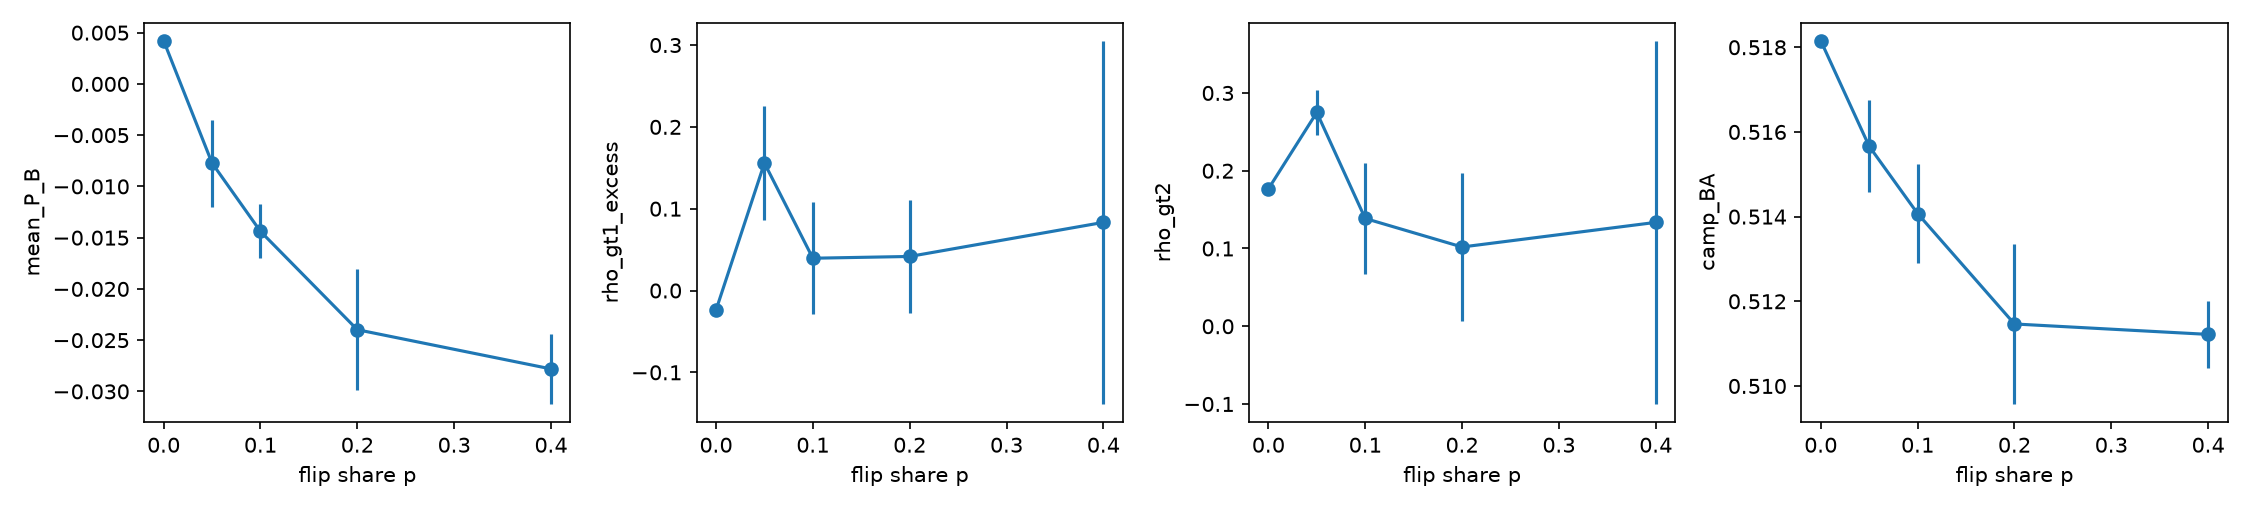
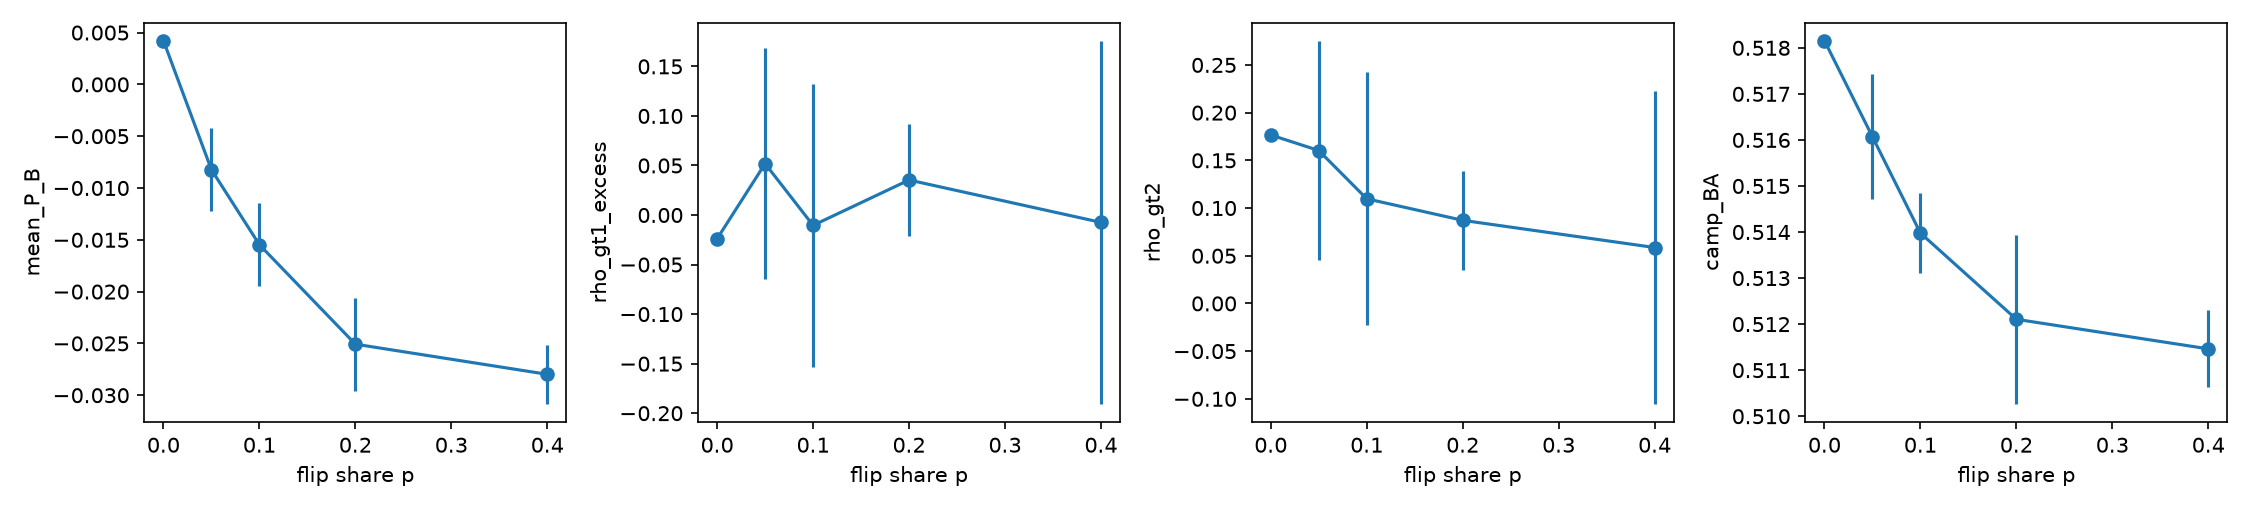
P1.6 H3 final (10 seeds): passes, small effects; 2-week windows; STATUS for Phase 2 under D-E6a

diff --git a/docs/reports/final_phase1_interim.md b/docs/reports/final_phase1_interim.md
@@ -6,7 +6,7 @@ Date: 2026-11-13. Branch `llm_implementation`, pre-registration tag `prereg-fina
 
 | Explanation | What Phase 1 shows | Verdict |
 |---|---|---|
-| **Noise** (B is unreliable at mean degree about 3) | Split-half reliability of P_B is about zero (Spearman-Brown median -0.08, 5-95% [-0.46, 0.25]); the observed frustration sits at the sign-shuffle null (mean P_B +0.005); thinning does not reduce rho_B. | **Favoured.** Consistent with everything in Phase 1. The decisive test is the Phase 2 density ladder. |
+| **Noise** (B is unreliable at mean degree about 3) | Split-half reliability of P_B is about zero (Spearman-Brown median -0.08, 5-95% [-0.46, 0.25]); the observed frustration sits at the sign-shuffle null (mean P_B +0.005); thinning does not reduce rho_B; injected sign noise lowers camp recovery and rho_B(GT#2) strictly but slightly (H3 passes). | **Favoured.** Consistent with everything in Phase 1. The decisive test is the Phase 2 density ladder. |
 | **Signs** (LLM signs carry little partisan information) | Better signs do not help: pilot accuracy rises from 48% (VADER) to 73% (binary LLM), 75% (C2) and 79% (continuous LLM), C1 adds intensity, and rho_B stays null for every rung (no delta vs B, all Holm p = 1.0). Every sign source shows cross-camp concentration of negativity, strongest for the LLM. | **Disfavoured.** If signs were the bottleneck, better or richer signs would move rho_B. They do not. |
 | **Mechanism** (disagreement is not aligned with the camps) | H-AL passes: cross-camp replies carry a lower Guo weight (delta-w -0.092, 95% CI [-0.106, -0.080], 139,015 labelled-both edges, 6,312 threads). The effect is small (about 0.16 SD; disagree share 50.3% cross vs 45.1% same; weekly alignment excess about 2.3 points above the label-permutation null). | **Rejected in its strong form.** Alignment exists, but it is weak. Weak alignment on a graph with mean degree 3.3 is exactly the setting where the noise explanation predicts no measurable balance. |
 
@@ -26,7 +26,7 @@ Pipeline B is not driven by it (partial rho_B given the r/politics share: -0.16 
 1. **H-AN wording.** The family H-AN has two Holm-corrected tests. (i) s_t vs GT#1: rho -0.66, adjusted p 0.13, **not significant**. (ii) Controlling for s_t shrinks |rho_A| by +0.27 [+0.04, +0.43], adjusted p 0.03, **significant**. H-AN is therefore **partially supported**, and the CLAIMS.md pass sentence ("as the camps mixed ... cross-camp replies are more hostile") is **not** used. The shift-share decomposition attributes only 3% of P_A's weekly variance to the changing mix of edge types, and s_t is mostly a proxy for venue composition. The paper says: "Pipeline A's negative association with the ground truths is a venue-composition effect. Weeks with more r/politics traffic score as more hostile and as less polarized. It is not explained by hostility on cross-camp replies, since the edge-type mix accounts for 3% of A's weekly variance."
 2. **D-E5 headline after the composition baselines.** The D-E5 rule result stands as pre-registered and is reported unchanged. It is always reported next to the composition baseline, with the sentence: "B's advantage over A comes from A's composition-driven negative association, not from B tracking the ground truths. Neither pipeline beats a one-variable composition baseline." The same caveat attaches to every "C beats A" verdict (C1 and C2 beat A with Holm p ≤ 0.003, but neither beats B).
 3. **H-AL holds at the edge level, but weekly alignment correlates negatively with GT.** These are not in conflict. H-AL is a pooled edge-level property (confirmatory, passes). Its week-to-week variation is diagnostic, and it is largely venue composition (see above). Report H-AL as the CLAIMS.md pass sentence with the effect size, plus "the effect is small (about 0.16 SD)". Report the weekly series only as a diagnostic, with its composition partials.
-4. **Flat noise curve next to near-zero reliability.** P_B does not respond to sign noise because, at 5%, there is little structural signal for noise to degrade: the observed frustration is at the null and the split-half reliability is about zero. The H3 verdict waits for the full 10 seeds per noise level (now running, see P1.6). If H3 fails, the CLAIMS.md fail sentence applies, with this reason added.
+4. **Noise curve next to near-zero reliability (H3 resolved with 10 seeds).** H3 **passes**: averaged over 10 seeds, both camp recovery (0.518, 0.516, 0.514, 0.512, 0.511) and rho_B(GT#2) (0.177, 0.160, 0.110, 0.087, 0.059) fall strictly as p rises from 0 to 0.4 (Spearman over p = −1.0 for both; the exact one-sided p for n = 5 is 1/120, Holm-adjusted 0.017). The CLAIMS.md pass sentence is used with an effect-size qualifier: "B degrades monotonically as sign noise is injected, but the effect is small (camp recovery −0.007; rho_B(GT#2) −0.12, inside one seed SD at each level)." This is consistent with the noise explanation: P_B carries a small sign-dependent signal that noise erodes, and it sits close to the floor at 5%. That explains why cleaner signs (the ladder) cannot lift it, while degraded signs still pull it down.
 
 ## One paragraph per task
 
@@ -40,9 +40,9 @@ Pipeline B is not driven by it (partial rho_B given the r/politics share: -0.16 
 
 **P1.5 Pipeline C1 and C2 (family C, confirmatory).** Neither beats B. C1 on GT#1: delta +0.10 [-0.08, +0.31], Holm p 0.55. C2 on GT#1: +0.20 [-0.23, +0.40], Holm p 0.79. Both beat A (Holm p ≤ 0.003), with the caveat in judgment 2. Camp recovery: C1 0.516, C2 0.520, B 0.518. The C2 head was trained on w_C1 with OOF R² 0.29 and pilot accuracy 74.6%. Its quality report was logged before any GT comparison. CLAIMS.md fail sentence: "Richer edge information does not improve on the sign alone." `results/llm/final/pipeline_c/`, `data/llm/c2/c2_quality.json`
 
-**P1.6 RQ3 sign quality.** The ladder (exploratory) is flat: no rung differs from B (all Holm p = 1.0), even though pilot accuracy runs from 48% to 79%. The noise curve (H3, confirmatory) is not yet final: 3-4 of the 10 seeds per p are done. Provisionally, camp recovery falls monotonically but slightly (0.518 to 0.511) and rho_B(GT#2) does not (0.18, 0.28, 0.14, 0.10, 0.13 for p = 0 to 0.4). `results/llm/final/rq3/`, `results/llm/final/rq3_rq2_jobs/`
+**P1.6 RQ3 sign quality.** The ladder (exploratory) is flat: no rung differs from B (all Holm p = 1.0), even though pilot accuracy runs from 48% to 79%. The noise curve (H3, confirmatory, 10 seeds per p) **passes**: camp recovery 0.518 → 0.511 and rho_B(GT#2) 0.18 → 0.06 both fall strictly with p (Spearman −1.0 each), with small effects (judgment 4). `results/llm/final/rq3/`, `results/llm/final/rq3_rq2_jobs/`
 
-**P1.7 RQ2 conditions (exploratory).** Rolling 4-week windows: rho_B +0.09 [-0.33, +0.50] on GT#1, +0.17 [-0.24, +0.50] on GT#2. Calendar months (13 points): -0.02 / +0.31. Thinning to 25% / 50% of threads: rho_B 0.21 / 0.09 (GT#1), 0.24 / 0.17 (GT#2); no density gain at these levels. Top vs bottom GT quartiles: no difference in camp recovery. The discordant-ally share correlates +0.66 / +0.67 with GT, but it is the mirror image of the composition-driven alignment series. 2-week windows are pending. `results/llm/final/rq2/`, `results/llm/final/rq3_rq2_jobs/`
+**P1.7 RQ2 conditions (exploratory).** Rolling 4-week windows: rho_B +0.09 [-0.33, +0.50] on GT#1, +0.17 [-0.24, +0.50] on GT#2. Calendar months (13 points): -0.02 / +0.31. Thinning to 25% / 50% of threads: rho_B 0.21 / 0.09 (GT#1), 0.24 / 0.17 (GT#2); no density gain at these levels. Top vs bottom GT quartiles: no difference in camp recovery. The discordant-ally share correlates +0.66 / +0.67 with GT, but it is the mirror image of the composition-driven alignment series. Rolling 2-week windows (52 points): rho_B +0.24 [+0.00, +0.49] on GT#1 (perm p 0.29), +0.40 [+0.15, +0.62] on GT#2 (perm p 0.10). This is the strongest B association in Phase 1; it is exploratory and not significant under the circular-shift permutation. `results/llm/final/rq2/`, `results/llm/final/rq3_rq2_jobs/`
 
 **P1.8 RQ4 forecasting.** No model beats persistence. MAE on GT#1: 0.0170 persistence, 0.0176 A, 0.0173 B. A is significantly worse than persistence on GT#2 (DM p 0.036). CLAIMS.md fail sentence applies. It is the expected result. `results/llm/final/rq4/`
 

diff --git a/docs/final_push/STATUS.md b/docs/final_push/STATUS.md
@@ -5,8 +5,8 @@ Agent model this session: Sonnet 5.5 (cheap lane). Folder lives at `docs/final_p
 ## Now running
 | Task | Machine | Started | Log | ETA |
 |---|---|---|---|---|
-| G1.5 retry: E3 = deberta-v3-large, 1 epoch, lr 1e-5, effective batch 32 (micro 8 x accum 4: micro 16 spilled out of the 24 GB card), 6 h box from 06:15 | WIN GPU | 2026-11-13 06:15 | `logs_llm/encoder_E3.log` | ~5 h |
-| P1.6 H3 seeds 5-9 (b_jobs queue, 12 workers) | WIN CPU | 2026-11-13 03:44 | `logs_llm/b_jobs.log` | ~7 h |
+| P2.2 encoder inference (E3, frozen D-E6a): 20% tier, then 1% tier, then the rest of the full shared venue (13.5M pairs). Resumable; chain waits on the 20% PID | WIN GPU | 2026-11-13 ~14:00 | `logs_llm/encode_20pct.log`, `encode_1pct.log`, `encode_full.log` | 20% ~2 h; full ~12 h total |
+| P2.3 ladder at 5% (A, B, B_bin, C1; R=20; 8 workers) | WIN CPU | 2026-11-13 | `logs_llm/ladder_5pct.log` | ~1 h |
 
 ## Done
 | Task | Headline result | File |
@@ -41,7 +41,7 @@ Tests: `.venv/Scripts/python.exe -m pytest -q` gives 106 passed, 1 failed (known
 
 ## Gates
 - prereg-final-v1 tag: **done** (2026-11-11, commit `533eb2d`)
-- G-ENC: pending
+- G-ENC: **FAILED** after the retry (E3: check 1 test agreement 0.797 < 0.85; check 5 196 pairs/s under CPU contention, 390 idle). Phase 2 proceeds with E3 as a declared deviation (D-E6a, 2026-11-13), because the timeline cannot absorb the 3.5-day LLM fallback.
 - Phase 3 gate: pending
 
 ## Handoff
@@ -50,9 +50,10 @@ Tests: `.venv/Scripts/python.exe -m pytest -q` gives 106 passed, 1 failed (known
 - **For CP1: alignment vs tracking.** H-AL holds at the edge level (delta-w -0.092) yet weekly alignment excess is negatively correlated with GT. Needs interpretation against the three-explanation table in PLAN.md.
 
 ## Next
-1. Cheap lane, stay on this model: P1.8 (RQ4), P1.5 (Pipeline C1), P1.6, P1.7, P1.2 (long compute), G1.7, G1.6.
-2. **Then needs Fable:** G1.3-G1.5 (encoder training, selection, G-ENC gate).
-
+1. When the 20% and 1% tiers are encoded: `scripts/final/density_ladder.py --density 0.2` and `--density 0.01` (CPU, 8-10 workers while the GPU encodes).
+2. When the full venue is encoded: `--density 1.0` (R=50; measure the per-week time first; if > 48 h projected, use `--weeks odd`).
+3. P2.4 statistics per density (rho with CIs, H1a/H1b/H1c, camp recovery, alignment) and P2.5 anchor (encoder vs LLM A/B/C at 5%, mandatory under D-E6a).
+4. Ladder figure (A8.7).
 
 > **SHA note (2026-11-11):** before the first push, local commits were rewritten (author set to KareemElnaghy, co-author trailers removed). Content is unchanged. Old `f56e579` is now `d16b880`; old `533eb2d` (tag `prereg-final-v1`) is now `ec83d8c`. `docs/llm_decisions.md` D-E5/D-E6 still print the old SHA `f56e579`; it is left as frozen text and this note is the mapping.
 
@@ -78,3 +79,7 @@ Run with R=20 (baseline p=0 reproduces the R=50 run: rho -0.024/+0.177 vs -0.030
 - Selection (val only): within 0.5 pp -> faster: E2 (1,099 vs 1,015 pairs/s).
 - G-ENC on E2 (`results/llm/final/encoder/gate.json`): (1) test acc 0.771 FAIL (>= 0.85); (2) Guo Spearman 0.798 FAIL (>= 0.80); (3) pilot 3-class 0.747 pass (LLM 0.72 on the same items); (4) weekly P_A Spearman 0.994 pass; (5) 1,119 pairs/s pass. Per SPEC_ENCODER section 7: one retry (E3, deberta-v3-large) running; then re-select among E1/E2/E3 and re-run the gate. If it fails again: G-ENC fails and the Phase 2 fallback (LLM on 20% tier, 12 fixed weeks) applies.
 - 5%-tier encoder outputs for E2 are in `data/llm/encoder_outputs.sqlite` (model `enc-ModernBERT-base-distill-v1`).
+- **G1.5 retry (2026-11-13):** E3 deberta-v3-large val 0.793 / Guo 0.844 (4.9 h). Re-selection picked E3 (higher val accuracy). Gate on E3: (1) 0.797 FAIL, (2) 0.841 pass, (3) 0.780 pass (LLM 0.72), (4) 0.995 pass, (5) 196.5 FAIL as recorded (idle re-measure 376-390 pairs/s). G-ENC fails. User needs Phase 2 results immediately for the other RQs, so D-E6a records a deviation: E3 frozen (sha256 42829001...), every encoder result labelled. 5%-tier E3 rows are in `data/llm/encoder_outputs.sqlite`.
+- **Tiers are independent thread samples, not nested** (5% threads in 20%: 23%; 1% in 5%: 5.5%). Each tier is encoded separately; the full venue covers all.
+### H3 final (10 seeds, 2026-11-13)
+H3 **passes**: camp recovery 0.518 -> 0.511 and rho_B(GT#2) 0.177 -> 0.059 strictly decreasing over p (Spearman -1.0 each), small effects. 2-week windows (exploratory): rho_B GT#2 +0.40 [+0.15, +0.62], perm p 0.10. CP1 report updated.
